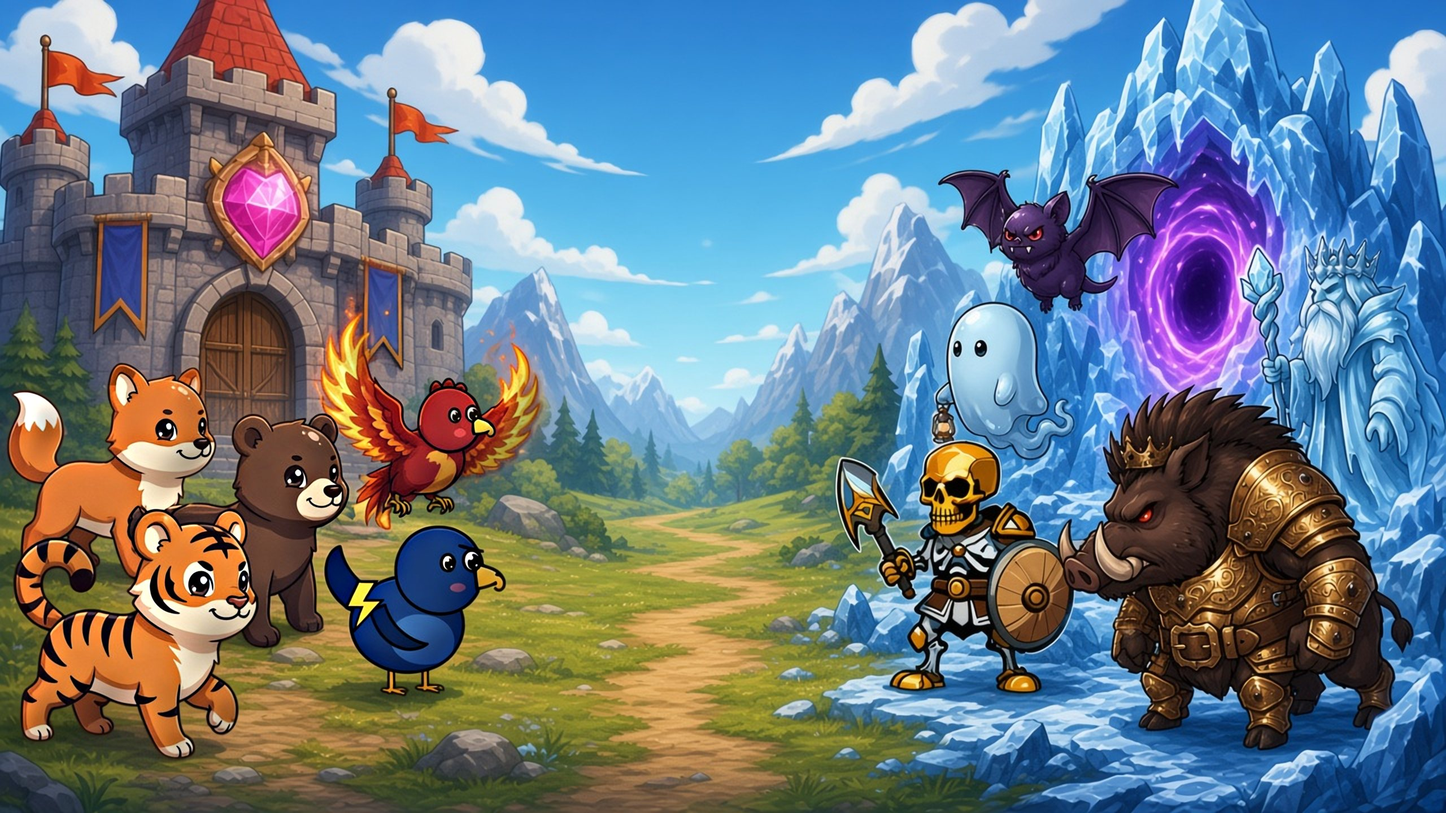
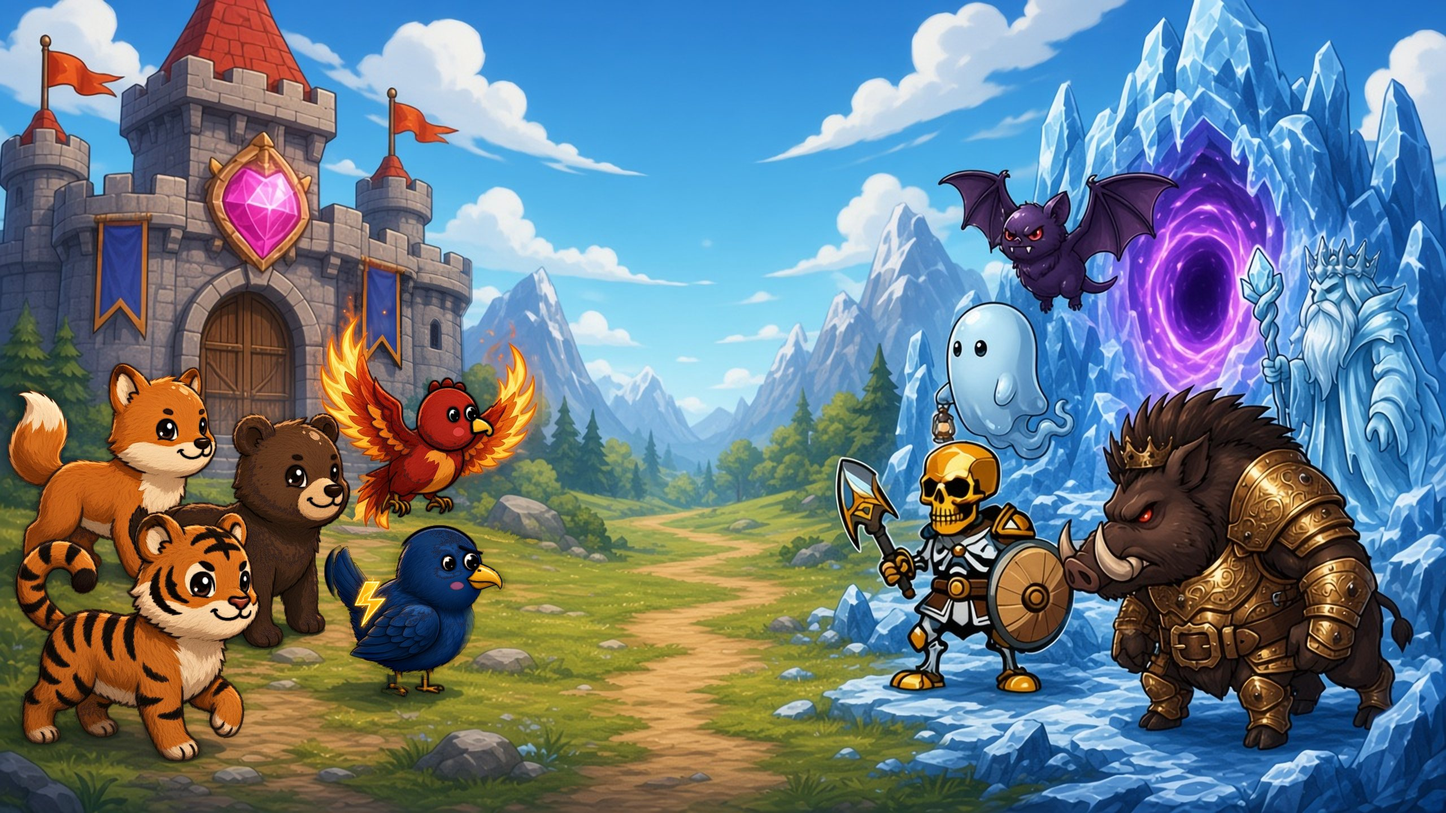
타이틀 배경을 B4로 교체: 금수를 몬스터와 같은 그림결로 다시 그림
- 여우·곰·호랑이·불새·천둥새를 같은 자리에서 다시 그림(털결·명암 단계·림라이트·두꺼운 외곽선)
- 위치·크기 B2와 비교: 머리 크기(눈 사이) ±5% 안, 눈~발 키 ±3% 안, 발끝 0~7px

Changed region(s): [[0.0, 0.3125, 0.375, 0.9375]]

diff --git a/src/scenes/TitleScene.js b/src/scenes/TitleScene.js
@@ -10,7 +10,7 @@ export default class TitleScene extends Phaser.Scene {
   create() {
     const save = this.registry.get('save');
     this.cameras.main.setBackgroundColor('#141a21');
-    // 타이틀 배경: 심장의 성문(B3). 없으면 예전 배경 → 그것도 없으면 도형 배경
+    // 타이틀 배경: 심장의 성문(B4). 없으면 예전 배경 → 그것도 없으면 도형 배경
     const bgKey = ['bg-title-gate', 'bg-title'].find((k) => this.textures.exists(k));
     if (bgKey) this.add.image(640, 360, bgKey).setDisplaySize(1280, 720);
     else this.drawBackdrop();
